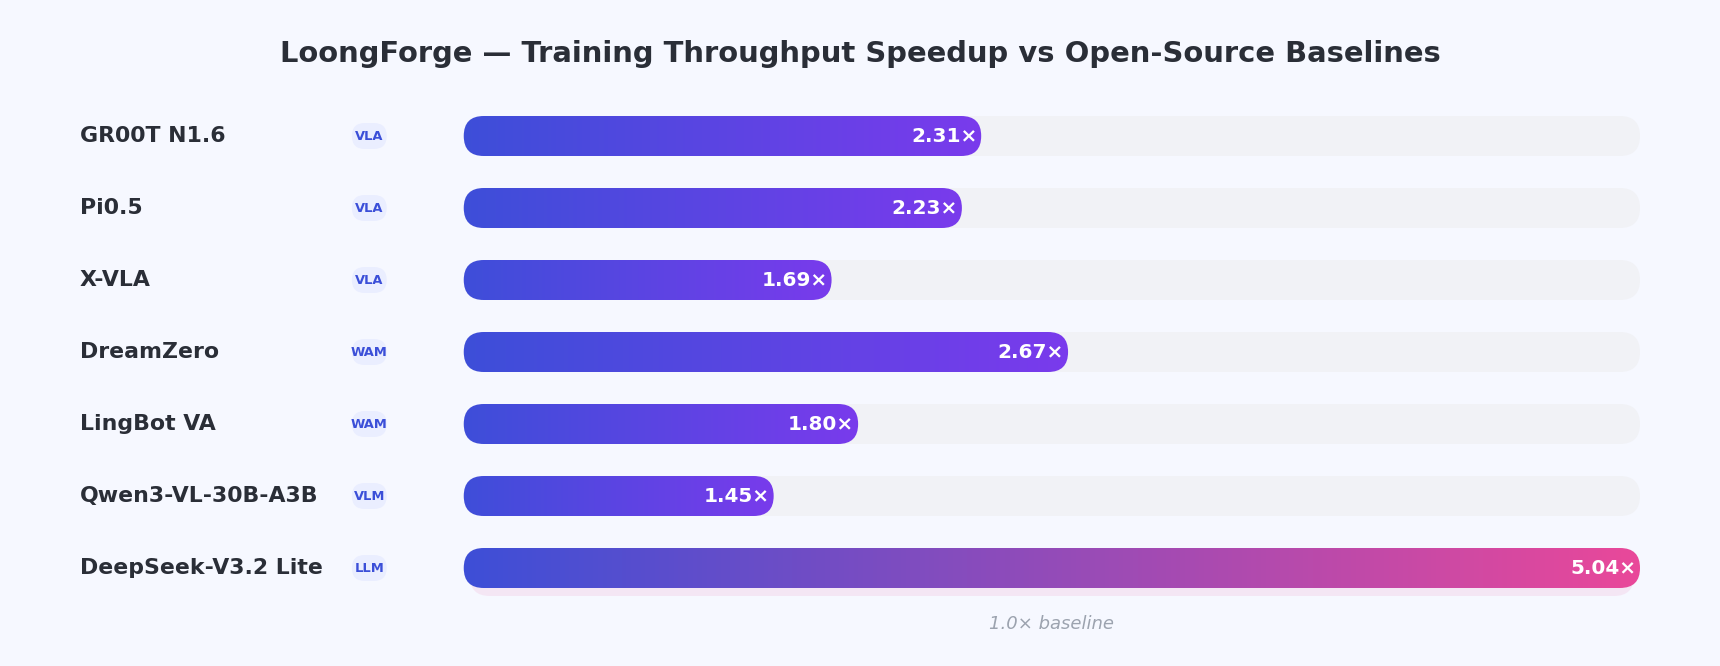
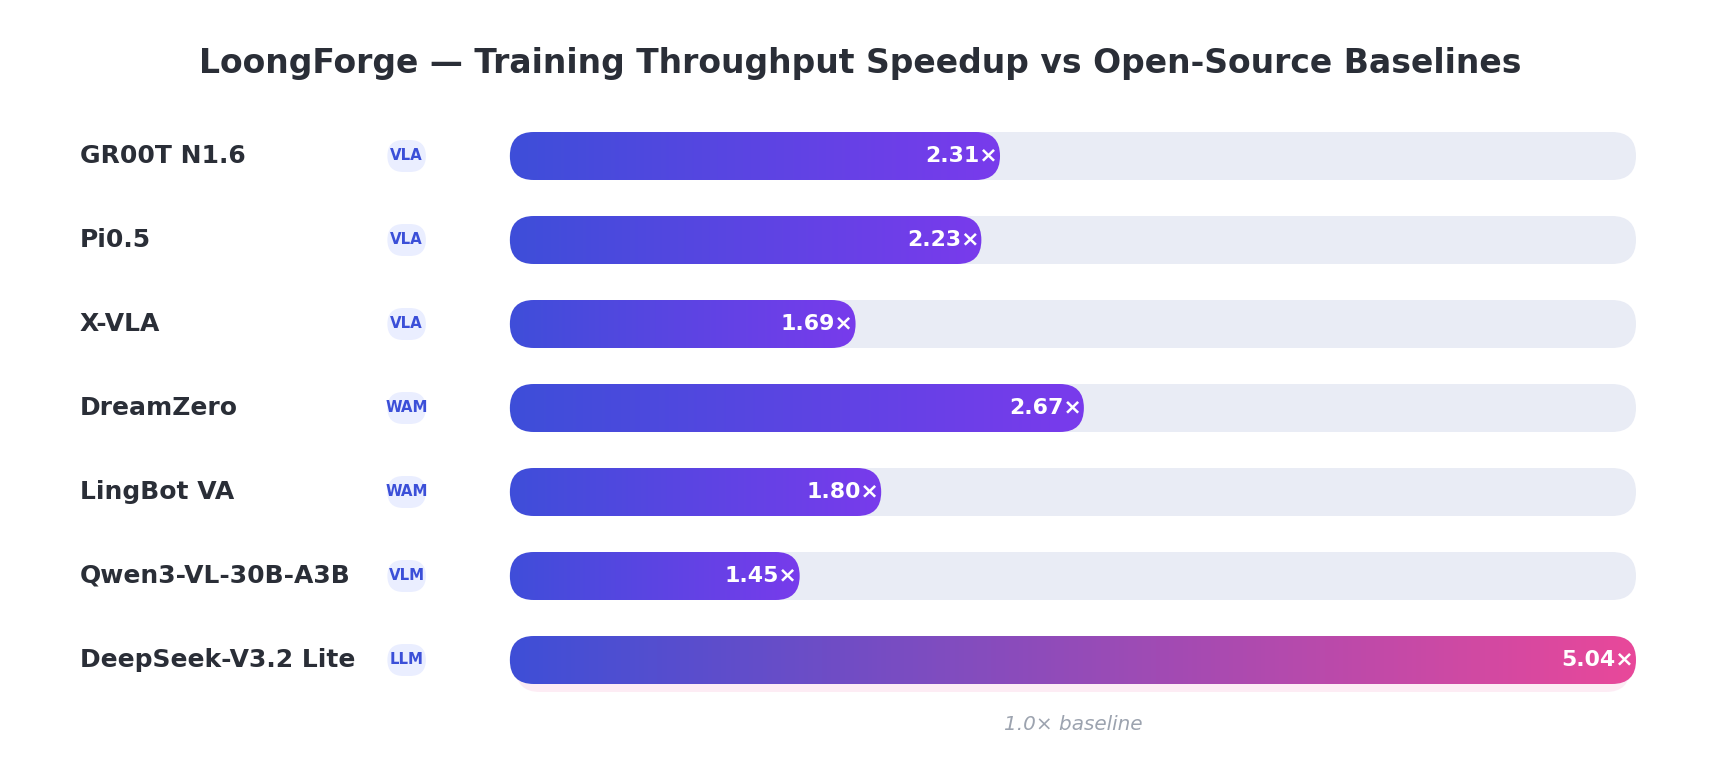
[docs] docs: polish benchmark chart rendering in README
- White chart canvas (was #F6F8FF) so it blends into the GitHub light theme;
  track darkened to #E9ECF5 to stay visible on white.
- Type sizes pulled out into FS_* constants and rebalanced, with row/bar
  heights adjusted to match.
- Pin the image to width="860" (half the 1720px source) and centre it, so
  browsers do an exact 2:1 downscale instead of a blurry fractional one.
- Drop the #architecture self-link and bold the evaluation module link.

diff --git a/docs/assets/images/benchmark_image.py b/docs/assets/images/benchmark_image.py
@@ -63,8 +63,8 @@ FONT_CANDIDATES = ["Inter", "Manrope", "Plus Jakarta Sans", "Figtree",
 # violet / ink values are taken from the architecture diagram
 # (docs/assets/images/architecture/loongforge-architecture.svg) so the two
 # README images read as one set.
-COLOR_CANVAS     = "#F6F8FF"   # architecture diagram light background
-COLOR_TRACK      = "#F1F2F6"   # .bench-track
+COLOR_CANVAS     = "#FFFFFF"   # blends into the GitHub light-theme page
+COLOR_TRACK      = "#E9ECF5"   # .bench-track, darkened to hold up on white
 COLOR_BAR_A      = "#3B4FD8"   # architecture indigo (gradient start)
 COLOR_BAR_B      = "#7C3AED"   # architecture violet (gradient end)
 COLOR_BAR_TOP_B  = "#EC4899"   # .bench-bar-top gradient end (brand pink)
@@ -78,16 +78,26 @@ COLOR_TITLE      = "#2A2E37"
 DPI = 150
 PX_PER_PT = DPI / 72.0
 
+# The PNG is a 2x asset: README pins it to W / 2 CSS px so browsers do an exact
+# 2:1 downscale (and no downscale at all on HiDPI screens). Type is therefore
+# sized for W / 2 — anything below ~20 px here turns to mush on screen.
 W          = 1720          # canvas width  (px)
 PAD_X      = 60            # left / right margin
 LABEL_X    = PAD_X + 20    # model name baseline
 TRACK_X1   = W - PAD_X     # track right edge
 LABEL_GAP  = 44            # gap between the pill column and the track
 PILL_GAP   = 16            # gap between the name column and the pill column
-ROW_PITCH  = 72
+ROW_PITCH  = 84
 GROUP_GAP  = 0             # extra spacing when the modality changes (0 = even)
-BAR_H      = 40
-BAR_PAD_R  = 24            # gap between bar end and the speedup text
+BAR_H      = 48
+BAR_PAD_R  = 26            # gap between bar end and the speedup text
+
+FS_TITLE    = 33
+FS_NAME     = 25
+FS_SPEEDUP  = 22
+FS_PILL     = 15
+FS_BASELINE = 20
+PILL_H      = 32           # modality pill height
 
 
 def _font():
@@ -139,16 +149,16 @@ def main():
     best = speedups.index(peak)                    # gets the pink accent bar
 
     # Row centres, with a little extra air whenever the modality changes.
-    y_title = 54 if TITLE else 0
+    y_title = 64 if TITLE else 0
     y_rows = []
-    y = y_title + (62 if TITLE else 40) + BAR_H / 2
+    y = y_title + (68 if TITLE else 40) + BAR_H / 2
     for i, (_, mtype, _) in enumerate(ROWS):
         if i and mtype != ROWS[i - 1][1]:
             y += GROUP_GAP
         y_rows.append(y)
         y += ROW_PITCH
-    y_baseline = y_rows[-1] + BAR_H / 2 + 36       # "1.0× baseline" caption
-    height = y_baseline + 42
+    y_baseline = y_rows[-1] + BAR_H / 2 + 40       # "1.0× baseline" caption
+    height = y_baseline + 48
 
     fig = plt.figure(figsize=(W / DPI, height / DPI), dpi=DPI)
     fig.patch.set_facecolor(COLOR_CANVAS)
@@ -166,14 +176,14 @@ def main():
         t.remove()
         return w
 
-    name_w = [measure(m, 22, "bold") for m, _, _ in ROWS]
-    pill_w = max(measure(t, 13, "bold") for _, t, _ in ROWS) + 24
+    name_w = [measure(m, FS_NAME, "bold") for m, _, _ in ROWS]
+    pill_w = max(measure(t, FS_PILL, "bold") for _, t, _ in ROWS) + 28
     pill_x0 = LABEL_X + max(name_w) + PILL_GAP
     track_x0 = pill_x0 + pill_w + LABEL_GAP
 
     if TITLE:
         ax.text(W / 2, y_title, TITLE, ha="center", va="center",
-                fontsize=_fs(29), fontweight="bold", color=COLOR_TITLE)
+                fontsize=_fs(FS_TITLE), fontweight="bold", color=COLOR_TITLE)
 
     for i, (model, mtype, speedup) in enumerate(ROWS):
         yc = y_rows[i]
@@ -195,20 +205,20 @@ def main():
         # Speedup value, right-aligned inside the bar
         ax.text(bar_x1 - BAR_PAD_R, yc, f"{speedup:.2f}×",
                 ha="right", va="center", zorder=5,
-                fontsize=_fs(20), fontweight="bold", color="white")
+                fontsize=_fs(FS_SPEEDUP), fontweight="bold", color="white")
 
         # Model name (left column) + modality pill (aligned column)
         ax.text(LABEL_X, yc, model, ha="left", va="center", zorder=4,
-                fontsize=_fs(22), fontweight="bold", color=COLOR_LABEL)
+                fontsize=_fs(FS_NAME), fontweight="bold", color=COLOR_LABEL)
         ax.text(pill_x0 + pill_w / 2, yc, mtype, ha="center", va="center",
-                zorder=5, fontsize=_fs(13), fontweight="bold",
+                zorder=5, fontsize=_fs(FS_PILL), fontweight="bold",
                 color=COLOR_PILL_FG)
-        _rounded(ax, pill_x0, yc - 13, pill_x0 + pill_w, yc + 13,
+        _rounded(ax, pill_x0, yc - PILL_H / 2, pill_x0 + pill_w, yc + PILL_H / 2,
                  fc=COLOR_PILL_BG, ec="none", zorder=4)
 
     # Baseline caption, centred under the track
     ax.text((track_x0 + TRACK_X1) / 2, y_baseline, BASELINE_CAPTION,
-            ha="center", va="center", fontsize=_fs(18),
+            ha="center", va="center", fontsize=_fs(FS_BASELINE),
             color=COLOR_BASELINE, style="italic")
 
     fig.savefig(OUTPUT_PATH, dpi=DPI, facecolor=COLOR_CANVAS)

diff --git a/README.md b/README.md
@@ -37,7 +37,7 @@
 **LoongForge** is an open-source training framework developed by the [Baidu AI Cloud Baige team](https://cloud.baidu.com/product/aihc.html), built to deliver [**faster training**](#performance) for mainstream LLMs, VLMs, diffusion, and embodied models, thereby significantly reducing costs.
 
 - **Easy to Use** — [Ready-to-run configs](./configs/models/) and [launch examples](./examples) for supported models, covering pre-training, continued pre-training, SFT, and LoRA.
-- **High Performance** — Built on [multiple training backends](#architecture) (Megatron-LM and torch-native), with deep optimizations for each model family across parallelism strategy, memory footprint, communication overlap, and kernel efficiency.
+- **High Performance** — Built on multiple training backends (Megatron-LM and torch-native), with deep optimizations for each model family across parallelism strategy, memory footprint, communication overlap, and kernel efficiency.
 - **Proven at Scale** — Open-sourced from AIAK-Training-LLM, a training acceleration suite serving enterprise customers in Education, Computer Vision, and Embodied AI, with the largest production runs reaching 5,000+ XPUs.
 
 <a id="architecture"></a>
@@ -61,7 +61,7 @@ Since optimal training strategies differ across model families and scales, Loong
 - **[2026/08]** 📄 Released the **[TAOT paper](https://arxiv.org/abs/2608.03676)** — topology-aware dynamic expert replica placement that tackles expert-parallel (**EP**) load imbalance in **MoE** training, cutting overhead by up to **74%** over industry solutions, with **1.43× speedup** measured on a real training case. [[blog](https://baidu-baige.github.io/LoongForge/blog/2026-08-taot-topology-aware-expert-placement.html)]
 - **[2026/08]** ✨ Added training support for **GLM-5.2**, along with a **[GLM-5.2 + MoonViT](./configs/models/glm5.2_vit/)** custom-composition [example](./examples/glm5.2_vit/) for extending GLM with multimodal capabilities.
 - **[2026/08]** ✨ Added training support for **MiniCPM-V-4.6** and **Qwen3.8-27B**.
-- **[2026/08]** 🧪 Introduced a unified [evaluation module](./loongforge/embodied/eval/) for the embodied stack, currently covering **Pi0.5 / xVLA / GR00T**, with more models on the way.
+- **[2026/08]** 🧪 Introduced a unified [**evaluation module**](./loongforge/embodied/eval/) for the embodied stack, currently covering **Pi0.5 / xVLA / GR00T**, with more models on the way.
 - **[2026/07]** 🐳 Unified the **prebuilt Docker images** — all model families (LLM / VLM / VLA / Diffusion) now share a single image.
 - **[2026/07]** 🤖 Released **[LoongForge-Embodied](./loongforge/embodied)**, a torch-native DDP/FSDP training subsystem for embodied models (Pi0.5, GR00T-N1.6/N1.7, xVLA, LingBot-VA, FastWAM, DreamZero, and Cosmos3), with up to **2.67× speedup**. [[blog](https://baidu-baige.github.io/LoongForge/blog/2026-07-announcing-loongforge-embodied.html)]
 - **[2026/07]** ✨ Added training support for **Qwen-Image-Edit-2511**.
@@ -111,7 +111,9 @@ Since optimal training strategies differ across model families and scales, Loong
 
 Below are some examples of training speedups over mainstream open-source baselines — for each model, LoongForge and its baseline were benchmarked on the same machine type with the same training hyperparameters:
 
-<img alt="LoongForge Benchmark Speedup" src="docs/assets/images/benchmark_speedup.png" />
+<p align="center">
+  <img alt="LoongForge Benchmark Speedup" src="docs/assets/images/benchmark_speedup.png" width="860" />
+</p>
 
 > DeepSeek-V3.2 Lite reflects DSA operator-level optimizations and was validated on a reduced-layer configuration due to test-bed scale limits.<br>
 > Numbers were measured at a point in time and may evolve as implementations change on both sides.

diff --git a/README_zh.md b/README_zh.md
@@ -37,7 +37,7 @@
 **LoongForge** 是一款开源训练框架，由百度智能云 [百舸团队](https://cloud.baidu.com/product/aihc.html) 开发，旨在为主流 **LLM、VLM、Diffusion 与具身模型** 提供[**更快的训练速度**](#performance)，从而显著降低成本。
 
 - **易用** —— 为支持的每个模型提供[开箱即用的配置](./configs/models/)与[启动示例](./examples)，整体覆盖预训练、持续预训练、SFT 与 LoRA 等训练范式。
-- **高性能** —— 采用[多后端架构](#architecture)（Megatron-LM 与 torch-native）构建，并针对不同类别的模型，从并行策略、显存优化、通信隐藏、算子效率等维度做深度优化。
+- **高性能** —— 采用多后端架构（Megatron-LM 与 torch-native）构建，并针对不同类别的模型，从并行策略、显存优化、通信隐藏、算子效率等维度做深度优化。
 - **源自生产** —— 由 AIAK-Training-LLM 开源而来，一套服务于教育、计算机视觉与具身智能等领域企业客户的训练加速套件，最大生产规模达 5,000+ XPU。
 
 <a id="architecture"></a>
@@ -61,7 +61,7 @@
 - **[2026/08]** 📄 发布 **[TAOT 论文](https://arxiv.org/abs/2608.03676)** —— 通过拓扑感知的动态专家副本放置，优化 **MoE** 训练中的专家并行（**EP**）负载不均衡，相较业界方案开销最大可降低 **74%**，案例实测 **1.43× 加速**。[[blog](https://baidu-baige.github.io/LoongForge/blog/2026-08-taot-topology-aware-expert-placement.html)]
 - **[2026/08]** ✨ 新增 **GLM-5.2** 训练支持，并提供 **[GLM-5.2 + MoonViT](./configs/models/glm5.2_vit/)** 自定义组合[示例](./examples/glm5.2_vit/)，可用于为 GLM 扩展多模态能力。
 - **[2026/08]** ✨ 新增 **MiniCPM-V-4.6** 与 **Qwen3.8-27B** 训练支持。
-- **[2026/08]** 🧪 Embodied 栈新增统一[评测模块](./loongforge/embodied/eval/)，当前已覆盖 **Pi0.5 / xVLA / GR00T**，持续扩展中。
+- **[2026/08]** 🧪 Embodied 栈新增统一[**评测模块**](./loongforge/embodied/eval/)，当前已覆盖 **Pi0.5 / xVLA / GR00T**，持续扩展中。
 - **[2026/07]** 🐳 统一**预构建 Docker 镜像** —— LLM / VLM / VLA / Diffusion 全部模型家族共用同一镜像。
 - **[2026/07]** 🤖 发布 **[LoongForge-Embodied](./loongforge/embodied)** —— 面向具身模型（Pi0.5、GR00T-N1.6/N1.7、xVLA、LingBot-VA、FastWAM、DreamZero、Cosmos3）的 torch-native DDP/FSDP 训练子系统，实测最高 **2.67× 加速**。[[blog](https://baidu-baige.github.io/LoongForge/blog/2026-07-announcing-loongforge-embodied.html)]
 - **[2026/07]** ✨ 新增 **Qwen-Image-Edit-2511** 训练支持。
@@ -111,7 +111,9 @@
 
 以下是一些模型相对主流开源基线的训练加速示例——每个模型与其基线的对比，均在相同机型与相同训练超参数下测得：
 
-<img alt="LoongForge Benchmark Speedup" src="docs/assets/images/benchmark_speedup.png" />
+<p align="center">
+  <img alt="LoongForge Benchmark Speedup" src="docs/assets/images/benchmark_speedup.png" width="860" />
+</p>
 
 > DeepSeek-V3.2 Lite 为 DSA 算子级优化的结果，受测试环境规模限制，在减层配置下验证。<br>
 > 数据为特定时间点的测试结果，双方实现持续演进，数值可能随之变化。
